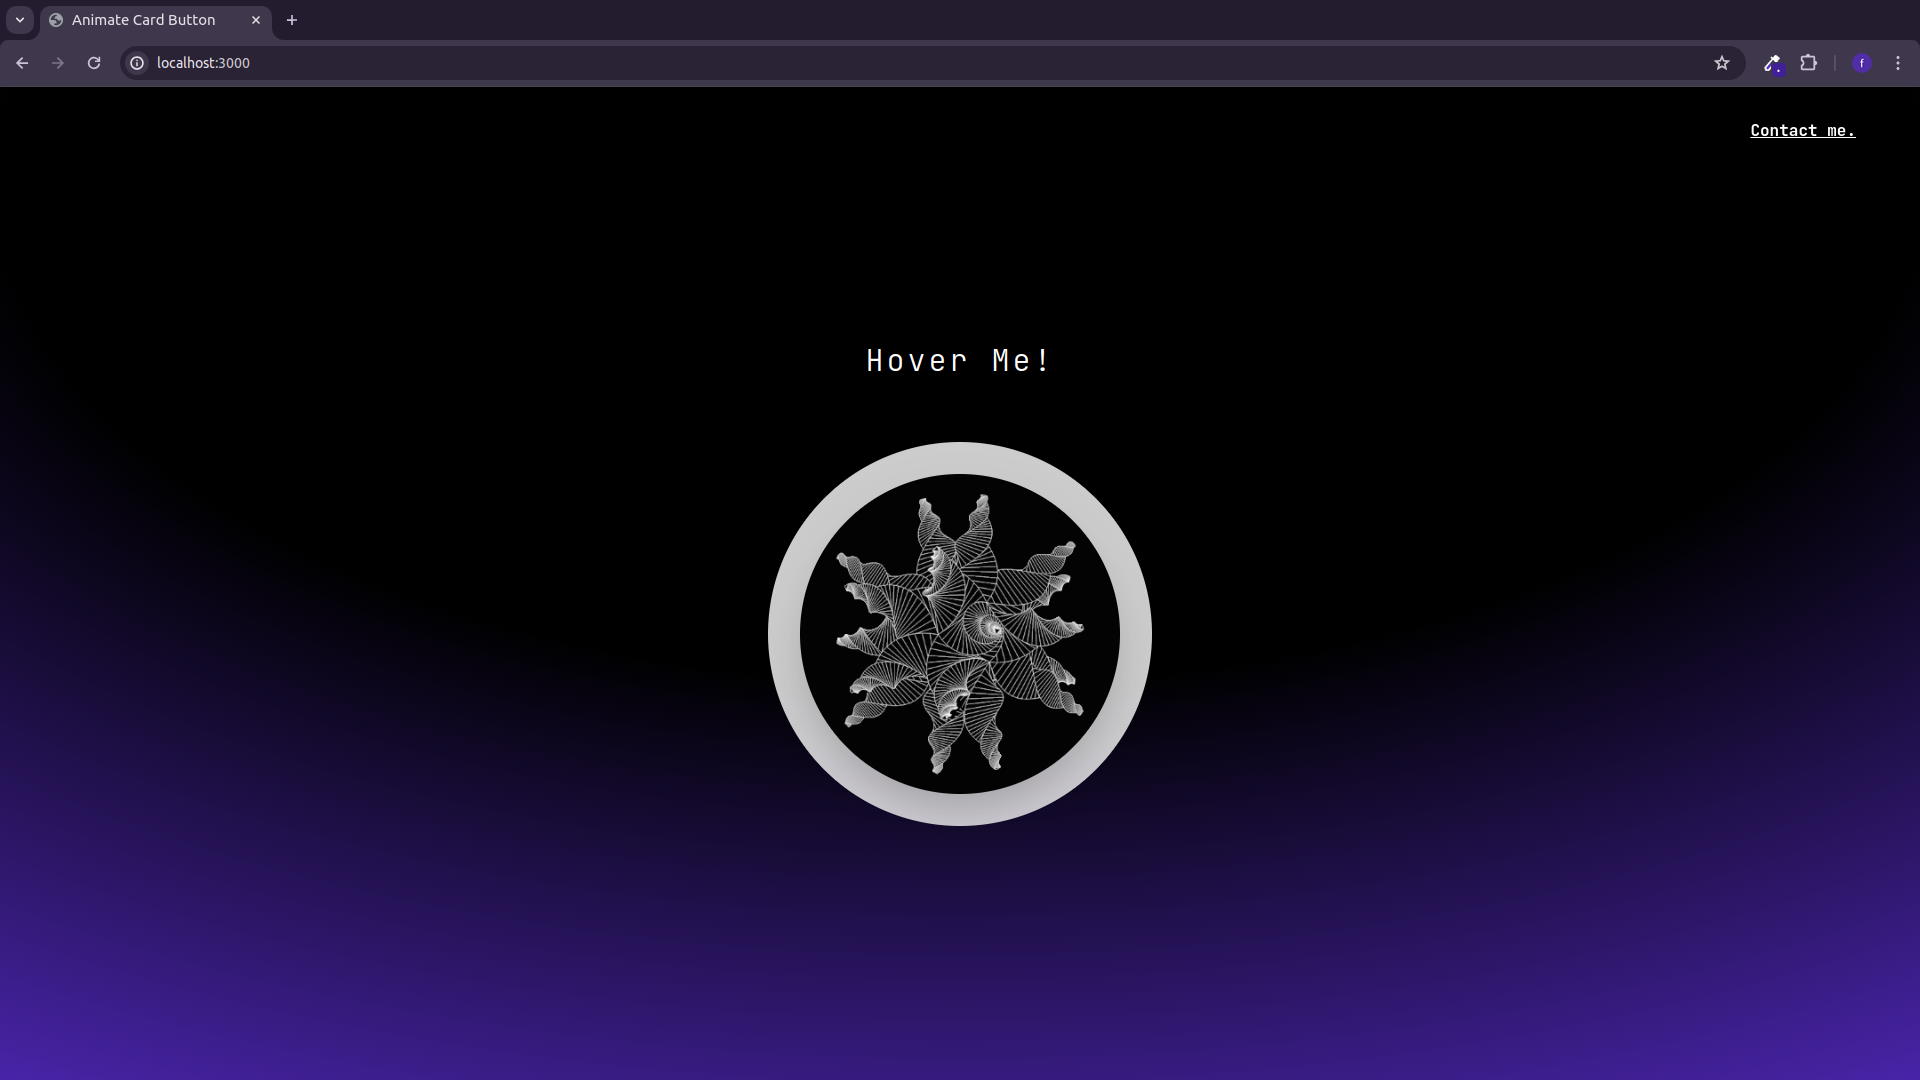
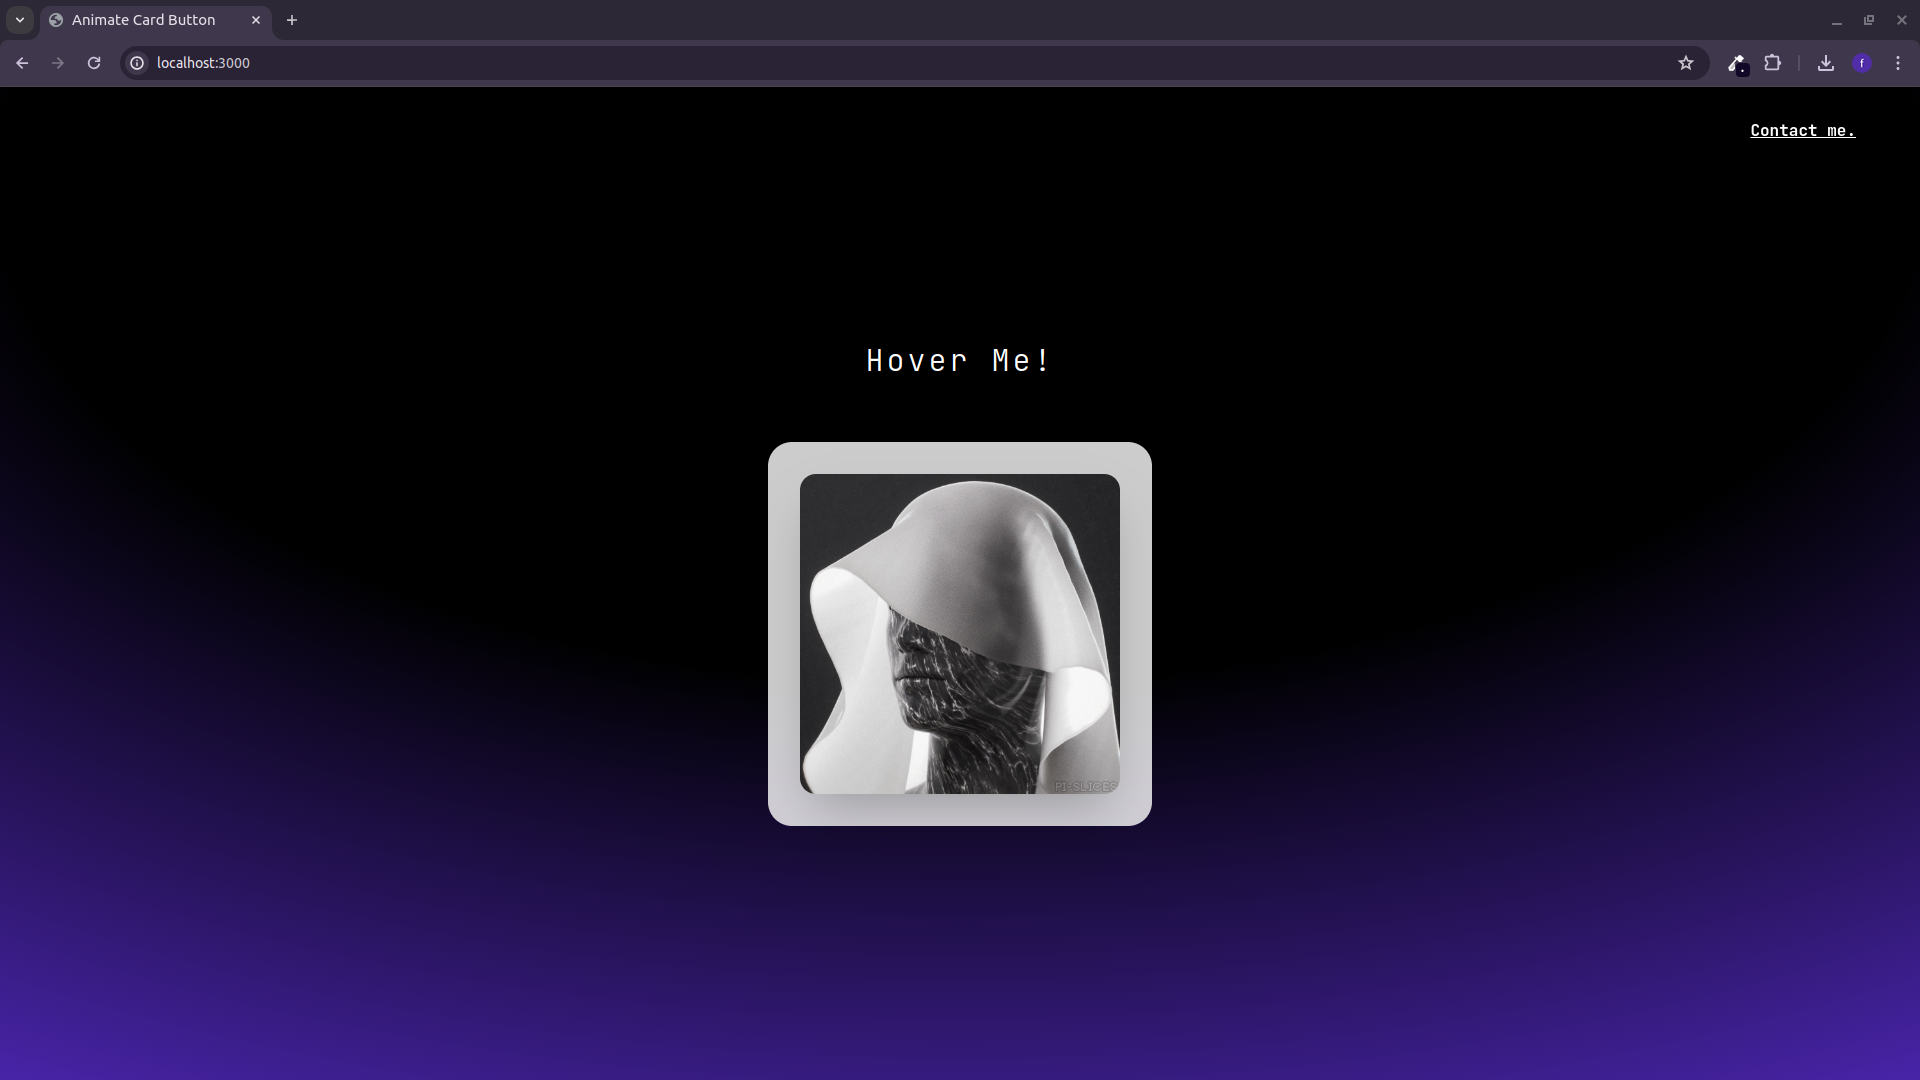
card img change

Changed region(s): [[0.375, 0.3972, 0.625, 0.7639], [0.9062, 0.0306, 0.9375, 0.0917]]

diff --git a/components/AnimateCardButton.jsx b/components/AnimateCardButton.jsx
@@ -43,7 +43,7 @@ const AnimateCardButton = () => {
       onMouseMove={handleMouseMove}
       onMouseLeave={handleMouseLeave}
       style={{ transformStyle: "preserve-3d", rotateX, rotateY }}
-      className="relative h-56 w-56 md:h-72 md:w-72 lg:h-96 lg:w-96 rounded-full bg-white/80"
+      className="relative w-72 h-96 lg:w-96 rounded-3xl bg-white/80"
     >
       {/* Create a link with animated background */}
       <Link
@@ -53,7 +53,7 @@ const AnimateCardButton = () => {
           transform: "translatez(75px)",
           transformStyle: "preserve-3d",
         }}
-        className="absolute inset-8 flex shrink-0 flex-col items-center justify-center rounded-full bg-black bg-[url('/animate.gif')] bg-contain bg-center bg-no-repeat shadow-2xl animate-pulse hover:animate-none duration-700 ease-in-out"
+        className="absolute inset-8 flex shrink-0 flex-col items-center justify-center rounded-2xl bg-black bg-[url('/test.gif')] bg-cover bg-center bg-no-repeat shadow-2xl animate-pulse"
       ></Link>
     </motion.div>
   );
